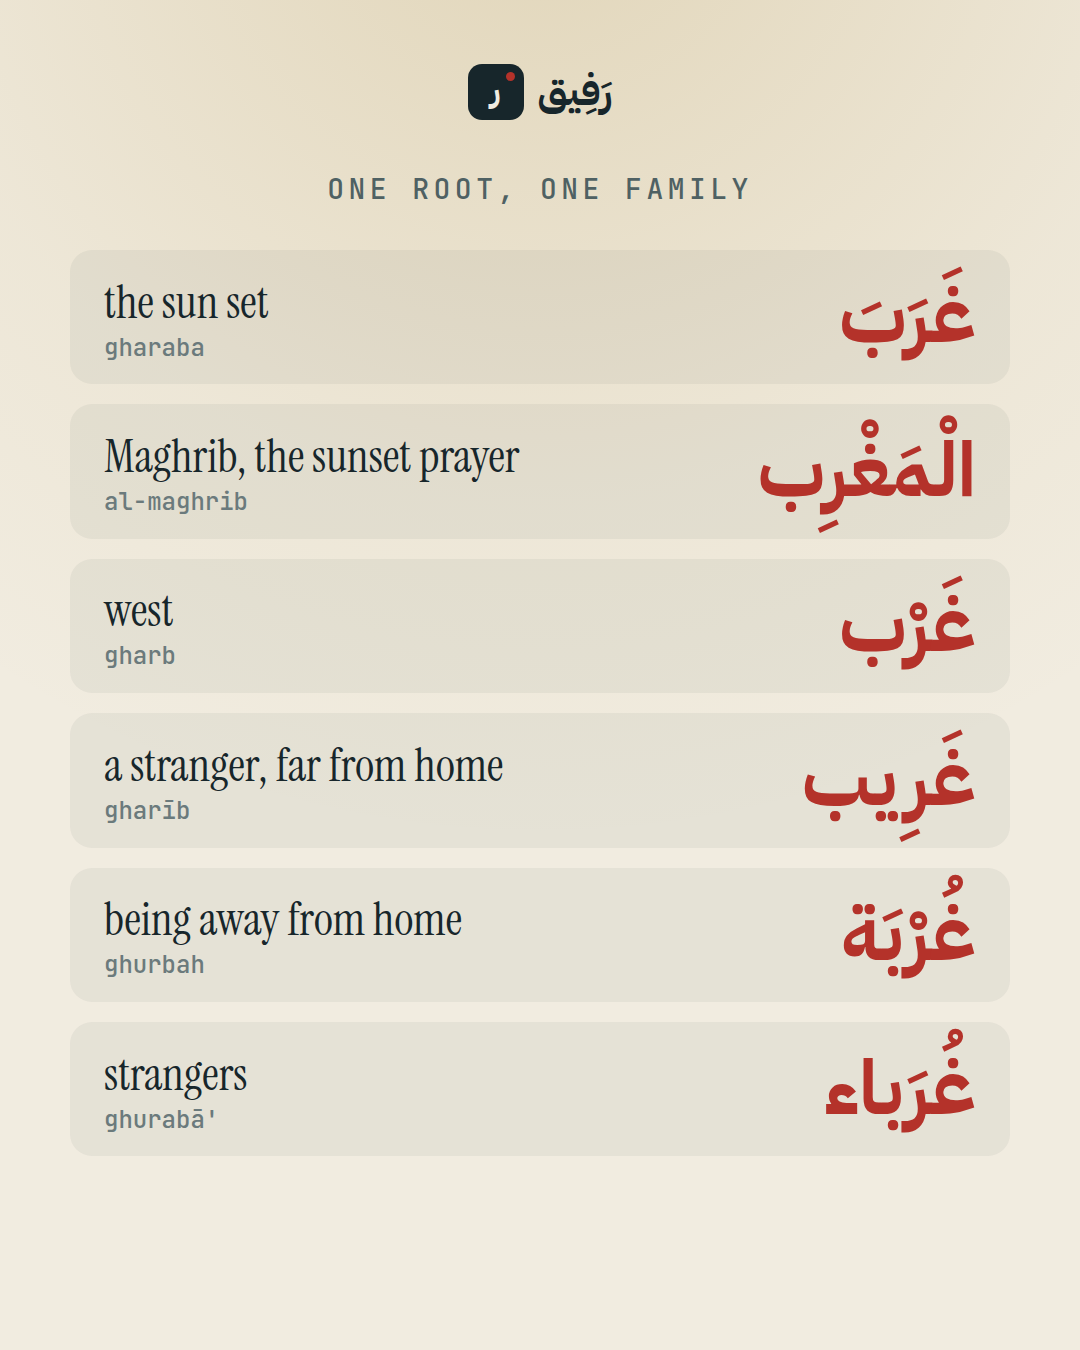
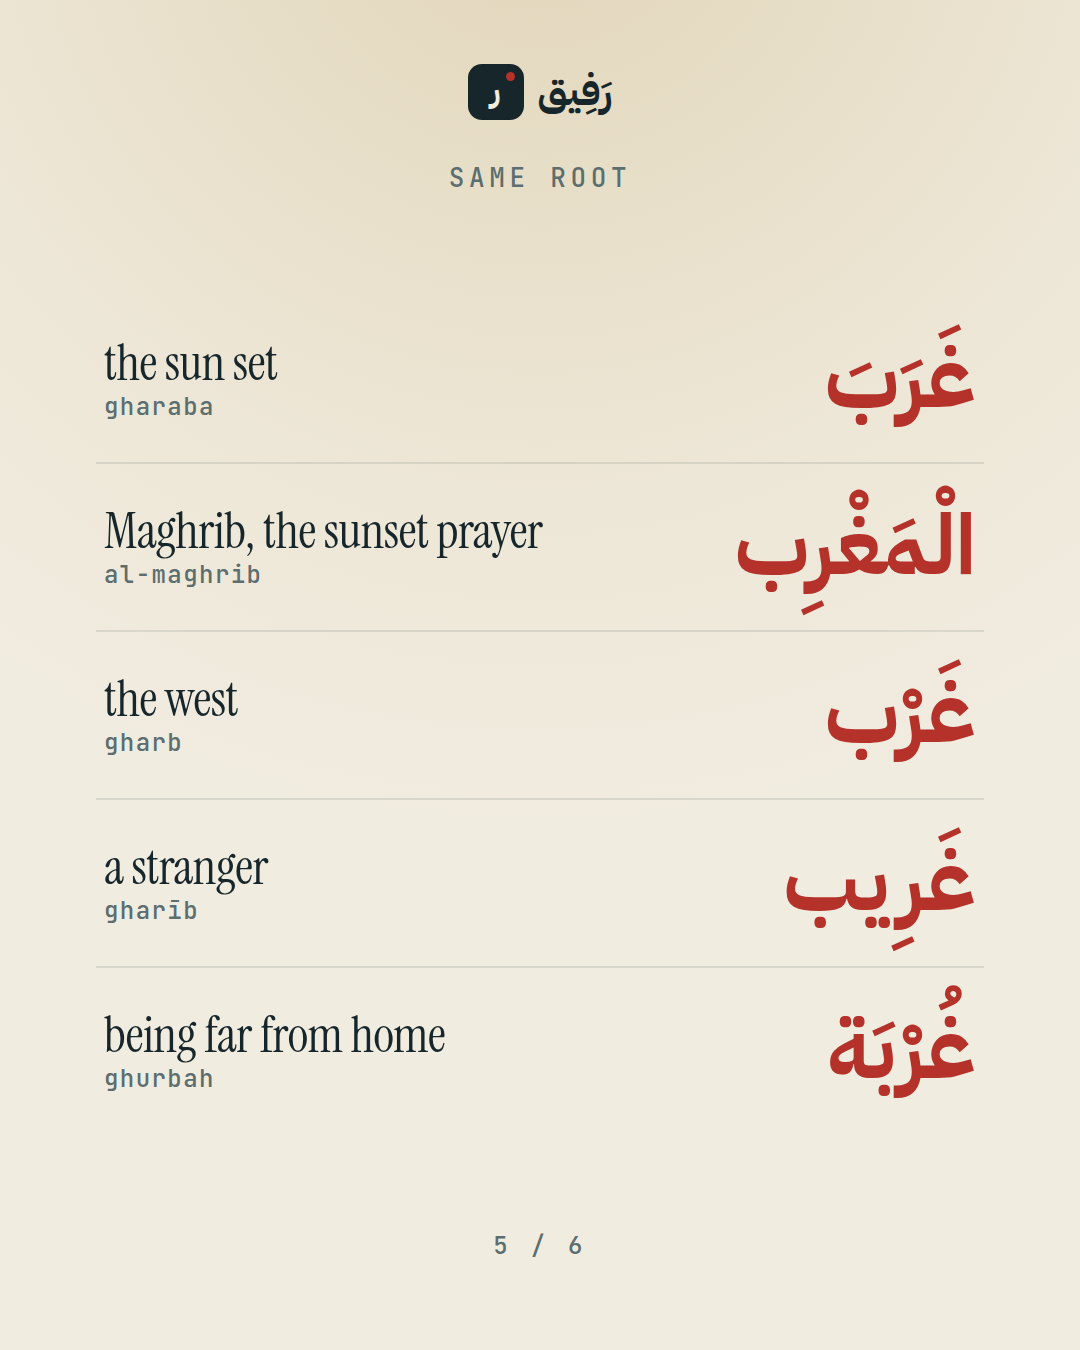
Strangers carousel v2: owner's order and hook, layout per the apple-design skill (#269)
Claude-Session: https://claude.ai/code/session_012WUx5AxZX2Tgox72zgHa7p

diff --git a/brag-quiz/build_ghurabaa_carousel.py b/brag-quiz/build_ghurabaa_carousel.py
@@ -1,67 +1,73 @@
-"""Carousel: the strangers hadith and the root غ ر ب (owner, 19 Oct 2026). Format "one important word traced to its root".
-Hook (TypeSafe, tools/typesafe-exp/ghurabaa_hook.py: the three tied at 8.0/9; the question kept, question hooks hold best).
-Hadith: Sahih Muslim 145 (the plain wording, without the later "who are the strangers?" additions); Bukhari 6416.
-For the teacher: the word-by-word glosses and "غَرَبَ: to go away; the sun set".
+"""Carousel: the strangers hadith and the root غ ر ب (owner, 19 Oct 2026; v2 in the owner's order and hook).
+1 ISLAM IS SO STRANGE! · 2 the hadith (Sahih Muslim 145, plain wording) · 3 غُرَباء = strangers · 4 the root · 5 other words from it ·
+6 Bukhari 6416 above "Comment below if you're a stranger".
+Hook: tools/typesafe-exp/ghurabaa_hook2.py (alone: respect 1.62/3; with the line pointing to the hadith 2.10, swipe up too, so kept).
+Layout (the apple-design skill): one focal element per slide, centred in one frame that every slide shares (brand, label, counter
+always in the same place); hierarchy from size and weight; tight leading and slight negative tracking on display text, open tracking
+on small labels; one accent colour, only on the word that matters; spacing on an 8 px grid.
+For the teacher: the glosses and "غ ر ب: to go away; the sun set".
 
-  python3 brag-quiz/build_ghurabaa_carousel.py   ->  brag-quiz/stills/ghurabaa/ghurabaa-1.png ... -7.png
+  python3 brag-quiz/build_ghurabaa_carousel.py   ->  brag-quiz/stills/ghurabaa/ghurabaa-1.png ... -6.png
 """
 import os
 from playwright.sync_api import sync_playwright
 import build_salah_numbers as S
-import build_questions_carousel as QC
 
-R, G, T = S.RED, S.GOLD, S.TEAL
-CSS = QC.CSS + f"""
-.hk {{ position:absolute; top:250px; left:60px; right:60px; text-align:center; font-family:"Instrument Serif"; font-size:104px; line-height:1.04; }}
-.pair {{ position:absolute; top:760px; left:0; right:0; display:flex; justify-content:center; gap:90px; direction:rtl; }}
-.pair div {{ text-align:center; }} .pair b {{ display:block; font-family:"Plex Arabic"; font-size:150px; line-height:1.25; color:{R}; }}
-.pair span {{ display:block; margin-top:22px; font-family:"JetBrains Mono"; font-size:30px; color:#4f6163; }}
-.lab {{ position:absolute; top:170px; left:0; right:0; text-align:center; font-family:"JetBrains Mono"; font-size:28px; letter-spacing:.16em; color:#4f6163; }}
-.had {{ position:absolute; top:270px; left:70px; right:70px; text-align:center; font-family:"Plex Arabic"; font-weight:700; font-size:84px; line-height:1.6; direction:rtl; }}
-.had i {{ font-style:normal; color:{R}; }}
-.hen {{ position:absolute; top:850px; left:90px; right:90px; text-align:center; font-family:"Instrument Serif"; font-style:italic; font-size:56px; line-height:1.15; }}
-.ref {{ position:absolute; top:1150px; left:0; right:0; text-align:center; font-family:"JetBrains Mono"; font-size:30px; letter-spacing:.12em; color:{T}; font-weight:700; }}
-.wbw {{ position:absolute; top:260px; left:50px; right:50px; display:flex; flex-wrap:wrap; flex-direction:row-reverse; justify-content:center; gap:22px; }}
-.wbw div {{ background:rgba(23,38,43,.05); border-radius:22px; padding:18px 22px; text-align:center; min-width:250px; }}
-.wbw div.k {{ background:{R}; color:#fff; }} .wbw div.k span {{ color:#fde; }}
-.wbw b {{ display:block; font-family:"Plex Arabic"; font-size:70px; line-height:1.45; direction:rtl; }}
-.wbw span {{ font-family:"Instrument Serif"; font-size:40px; color:#4f6163; }}
-.rt {{ position:absolute; top:300px; left:0; right:0; text-align:center; font-family:"Plex Arabic"; font-size:260px; color:{R}; direction:rtl; letter-spacing:.12em; }}
-.rm {{ position:absolute; top:760px; left:80px; right:80px; text-align:center; font-family:"Instrument Serif"; font-size:78px; line-height:1.1; }}
-.rs {{ position:absolute; top:1040px; left:110px; right:110px; text-align:center; font-size:36px; font-weight:700; color:{T}; }}
-.fam {{ position:absolute; top:250px; left:70px; right:70px; display:grid; gap:20px; }}
-.fam div {{ display:flex; align-items:center; justify-content:space-between; background:rgba(23,38,43,.05); border-radius:22px; padding:14px 34px; }}
-.fam b {{ font-family:"Plex Arabic"; font-size:76px; line-height:1.4; color:{R}; direction:rtl; }}
-.fam span {{ font-family:"Instrument Serif"; font-size:46px; text-align:left; }} .fam small {{ display:block; font-family:"JetBrains Mono"; font-size:24px; color:#6b7a7c; }}
-.tie {{ position:absolute; top:1060px; left:80px; right:80px; text-align:center; font-family:"Instrument Serif"; font-size:60px; line-height:1.1; }}
+GOLD, MUTE = "#E9B949", "#5c6e70"
+CSS = S.CSS + f"""
+@font-face {{ font-family:"Anton"; src:url("file://{os.path.join(S.HERE, "fonts", "anton-latin-400-normal.woff2")}"); }}
+.frame {{ position:absolute; inset:0; padding:160px 96px 88px; display:flex; flex-direction:column; align-items:center; text-align:center; }}
+.lab {{ font-family:"JetBrains Mono"; font-size:26px; letter-spacing:.18em; color:{MUTE}; text-transform:uppercase; height:40px; }}
+.dark .lab {{ color:rgba(241,236,224,.55); }}
+.main {{ flex:1; width:100%; display:flex; flex-direction:column; justify-content:center; align-items:center; gap:40px; }}
+.foot {{ font-family:"JetBrains Mono"; font-size:24px; letter-spacing:.18em; color:{MUTE}; height:32px; }}
+.dark .foot {{ color:{GOLD}; font-family:"Karla"; font-weight:700; font-size:36px; letter-spacing:0; }}
+.arb {{ font-family:"Plex Arabic"; font-weight:700; direction:rtl; }}
+.acc {{ color:{S.RED}; }} .dark .acc {{ color:{GOLD}; }}
+.disp {{ font-family:"Instrument Serif"; line-height:1.0; letter-spacing:-.02em; }}
+.it {{ font-family:"Instrument Serif"; font-style:italic; line-height:1.2; }}
+.mono {{ font-family:"JetBrains Mono"; font-size:30px; letter-spacing:.06em; color:{MUTE}; }}
+.rule {{ width:64px; height:4px; border-radius:2px; background:{S.RED}; opacity:.8; }}
+.hook {{ font-family:"Anton"; font-size:184px; line-height:.92; letter-spacing:-.005em; text-transform:uppercase; }}
+.rows {{ width:100%; display:flex; flex-direction:column; }}
+.row {{ display:flex; align-items:center; justify-content:space-between; padding:22px 8px; border-bottom:2px solid rgba(23,38,43,.10); }}
+.row:last-child {{ border-bottom:0; }}
+.row .l {{ text-align:left; }} .row .l b {{ display:block; font-family:"Instrument Serif"; font-weight:400; font-size:50px; line-height:1.1; letter-spacing:-.01em; }}
+.row .l span {{ font-family:"JetBrains Mono"; font-size:24px; letter-spacing:.06em; color:{MUTE}; }}
+.row .arb {{ font-size:84px; line-height:1.45; color:{S.RED}; }}
 """
-FAM = [("غَرَبَ", "the sun set", "gharaba"), ("الْمَغْرِب", "Maghrib, the sunset prayer", "al-maghrib"), ("غَرْب", "west", "gharb"),
-       ("غَرِيب", "a stranger, far from home", "gharīb"), ("غُرْبَة", "being away from home", "ghurbah"), ("غُرَباء", "strangers", "ghurabā'")]
-WBW = [("بَدَأَ", "began"), ("الإِسْلامُ", "Islam"), ("غَرِيبًا", "as a stranger", 1), ("وَسَيَعُودُ", "and it will return"),
-       ("كَما بَدَأَ", "as it began"), ("غَرِيبًا", "a stranger", 1), ("فَطُوبى", "so glad tidings"), ("لِلْغُرَباءِ", "to the strangers", 1)]
+FAM = [("غَرَبَ", "the sun set", "gharaba"), ("الْمَغْرِب", "Maghrib, the sunset prayer", "al-maghrib"), ("غَرْب", "the west", "gharb"),
+       ("غَرِيب", "a stranger", "gharīb"), ("غُرْبَة", "being far from home", "ghurbah")]
+N = 6
+
+def page(k, lab, main, dark=False, foot=None):
+    foot = foot if foot is not None else f"{k} / {N}"
+    return f'<body class="{"dark" if dark else ""}">{S.BRAND}<div class="frame"><div class="lab">{lab}</div><div class="main">{main}</div><div class="foot">{foot}</div></div></body>'
 
 def slides():
-    B = S.BRAND
     return {
-     "1": f'<body>{B}<div class="hk">What does a <i style="color:{R};font-style:normal">stranger</i><br>have to do with<br>Maghrib? 🌅</div>'
-          '<div class="pair"><div><b>غَرِيب</b><span>gharīb · stranger</span></div><div><b>الْمَغْرِب</b><span>al-maghrib · sunset</span></div></div>'
-          '<div class="cs" style="top:1180px">SWIPE →</div></body>',
-     "2": f'<body>{B}<div class="lab">THE PROPHET (PBUH) SAID</div><div class="had">بَدَأَ الإِسْلامُ <i>غَرِيبًا</i>، وَسَيَعُودُ كَما بَدَأَ <i>غَرِيبًا</i>، فَطُوبى <i>لِلْغُرَباءِ</i></div>'
-          '<div class="hen">“Islam began as something strange, and it will return to being strange as it began, so glad tidings to the strangers.”</div>'
-          '<div class="ref">SAHIH MUSLIM 145</div></body>',
-     "3": f'<body>{B}<div class="lab">WORD BY WORD</div><div class="wbw">' +
-          "".join(f'<div class="{"k" if len(w) > 2 else ""}"><b>{w[0]}</b><span>{w[1]}</span></div>' for w in WBW) + '</div></body>',
-     "4": f'<body>{B}<div class="lab">THE ROOT</div><div class="rt">غ ر ب</div>'
-          '<div class="rm">to go away,<br>like the sun when it <i style="color:#C8372D">sets</i></div>'
-          '<div class="rs">A غَرِيب is someone who has gone far from home.</div></body>',
-     "5": f'<body>{B}<div class="lab">ONE ROOT, ONE FAMILY</div><div class="fam">' +
-          "".join(f'<div><span>{e}<small>{t}</small></span><b>{a}</b></div>' for a, e, t in FAM) + '</div></body>',
-     "6": f'<body>{B}<div class="lab">AND HE (PBUH) SAID</div><div class="had" style="top:300px">كُنْ فِي الدُّنْيا كَأَنَّكَ <i>غَرِيبٌ</i> أَوْ عابِرُ سَبِيلٍ</div>'
-          '<div class="hen" style="top:640px">“Be in this world as if you were a stranger or a traveller.”</div>'
-          '<div class="ref" style="top:860px">SAHIH AL-BUKHARI 6416</div>'
-          '<div class="tie">A stranger is far from home.<br>Our home is somewhere else. 🤍</div></body>',
-     "7": f'<body class="dark">{B}<div class="endq">Did you know<br>Maghrib and <i>stranger</i><br>were family? 👇</div>'
-          '<div class="ends"><div>Save this 📌 for later</div><div>Send it to someone who feels like a stranger</div></div></body>'}
+     "1": page(1, "", '<div class="hook">Islam is<br>so <span class="acc">strange!</span></div>'
+                      '<div class="it" style="font-size:56px;opacity:.85">…and the Prophet <span class="arb" style="font-style:normal">ﷺ</span> said it would be.</div>',
+               dark=True, foot="Swipe →"),
+     "2": page(2, "The Prophet ﷺ said".replace("ﷺ", "(pbuh)"),
+               '<div class="arb" style="font-size:80px;line-height:1.75">بَدَأَ الإِسْلامُ <span class="acc">غَرِيبًا</span>، وَسَيَعُودُ كَما بَدَأَ <span class="acc">غَرِيبًا</span>، فَطُوبى <span class="acc">لِلْغُرَباءِ</span></div>'
+               '<div class="rule"></div>'
+               '<div class="it" style="font-size:52px">“Islam began as something strange, and it will return to being strange as it began, so glad tidings to the strangers.”</div>'
+               '<div class="mono" style="color:#2e7263;font-weight:500">SAHIH MUSLIM 145</div>'),
+     "3": page(3, "The word", '<div class="arb acc" style="font-size:300px;line-height:1.3">غُرَباء</div>'
+                              '<div class="mono">ghurabāʾ</div><div class="disp" style="font-size:150px">strangers</div>'
+                              '<div class="it" style="font-size:44px;color:#5c6e70">One stranger: <span class="arb" style="font-style:normal">غَرِيب</span> · gharīb</div>'),
+     "4": page(4, "The root", '<div class="arb acc" style="font-size:280px;line-height:1.3;letter-spacing:.14em">غ ر ب</div>'
+                              '<div class="disp" style="font-size:132px">to go away</div>'
+                              '<div class="it" style="font-size:52px;color:#5c6e70">like the sun when it sets 🌅<br>A stranger is someone far from home.</div>'),
+     "5": page(5, "Same root", '<div class="rows">' + "".join(f'<div class="row"><div class="l"><b>{e}</b><span>{t}</span></div><div class="arb">{a}</div></div>' for a, e, t in FAM) + '</div>'),
+     "6": page(6, "And he (pbuh) said",
+               '<div class="arb" style="font-size:60px;line-height:1.7;white-space:nowrap">كُنْ فِي الدُّنْيا كَأَنَّكَ <span class="acc">غَرِيبٌ</span> أَوْ عابِرُ سَبِيلٍ</div>'
+               '<div class="it" style="font-size:46px;opacity:.85">“Be in this world as if you were a stranger or a traveller.”</div>'
+               '<div class="mono" style="color:rgba(241,236,224,.55)">SAHIH AL-BUKHARI 6416</div>'
+               '<div style="height:24px"></div>'
+               '<div class="hook" style="font-size:112px;line-height:.98">Comment below<br>if you’re a <span class="acc">stranger</span> 👇</div>',
+               dark=True, foot="")}
 
 if __name__ == "__main__":
     out = os.path.join(S.HERE, "stills", "ghurabaa"); os.makedirs(out, exist_ok=True)
@@ -73,4 +79,4 @@ if __name__ == "__main__":
             pg.goto("file://" + tmp); pg.evaluate("document.fonts.ready"); pg.wait_for_timeout(300)
             pg.screenshot(path=os.path.join(out, f"ghurabaa-{k}.png"))
         os.remove(os.path.join(out, "_s.html")); b.close()
-    print("7 slides")
+    print(N, "slides")

diff --git a/tools/typesafe-exp/ghurabaa_hook2.py b/tools/typesafe-exp/ghurabaa_hook2.py
@@ -1,0 +1,16 @@
+# Owner's hook for the strangers carousel v2: "ISLAM IS SO STRANGE!" alone, or with a line that points to the hadith.
+# Run: TYPE_SAFE_KEY=... python3 tools/typesafe-exp/ghurabaa_hook2.py
+# Result (19 Oct; 3 viewers x 2): alone swipe 2.26 respect 1.62 · with the line swipe 2.33 respect 2.10 (used).
+exec(open("tools/typesafe-exp/darasa_caption.py").read().split("CTX =")[0])
+CTX = ("Slide 1 of an Instagram photo carousel from a small Muslim account teaching Arabic. The next slides: the hadith 'Islam began as something "
+       "strange and will return to being strange as it began, so glad tidings to the strangers' (Muslim 145), the word غُرَباء, its root, and "
+       "'Be in this world as if you were a stranger'. Slide 1 says: ")
+WHO = {"target": "a 27-year-old UK Muslim who prays but doesn't understand the Arabic", "revert": "a 31-year-old revert learning Arabic", "scroller": "a 22-year-old Muslim scrolling fast"}
+H = {"alone": "ISLAM IS SO STRANGE!", "line": "ISLAM IS SO STRANGE! (smaller, under it:) …and the Prophet ﷺ said it would be."}
+Q = {"swipe": {"type": "score", "instructions": "`ctx` `h` Viewer: `who`. How likely are they to swipe to the next slide?", "criteria": ["Very unlikely", "Unlikely", "Likely", "Very likely"]},
+     "respect": {"type": "score", "instructions": "`ctx` `h` Viewer: `who`. Before swiping, does slide 1 alone feel respectful to Islam?", "criteria": ["No, it reads as mocking", "Unsure", "Mostly", "Yes"]}}
+jobs = [(k, w) for k in H for w in WHO for _ in range(2)]
+with ThreadPoolExecutor(12) as ex: res = list(ex.map(lambda j: (j, ask({"ctx": CTX, "h": H[j[0]], "who": WHO[j[1]]}, Q)["answers"]), jobs))
+for k in H:
+    s = {q: sum(a[q]["score"] for (kk, _), a in res if kk == k) / 6 for q in Q}
+    print(f"{k:6}", "  ".join(f"{q} {s[q]:.2f}" for q in Q))
